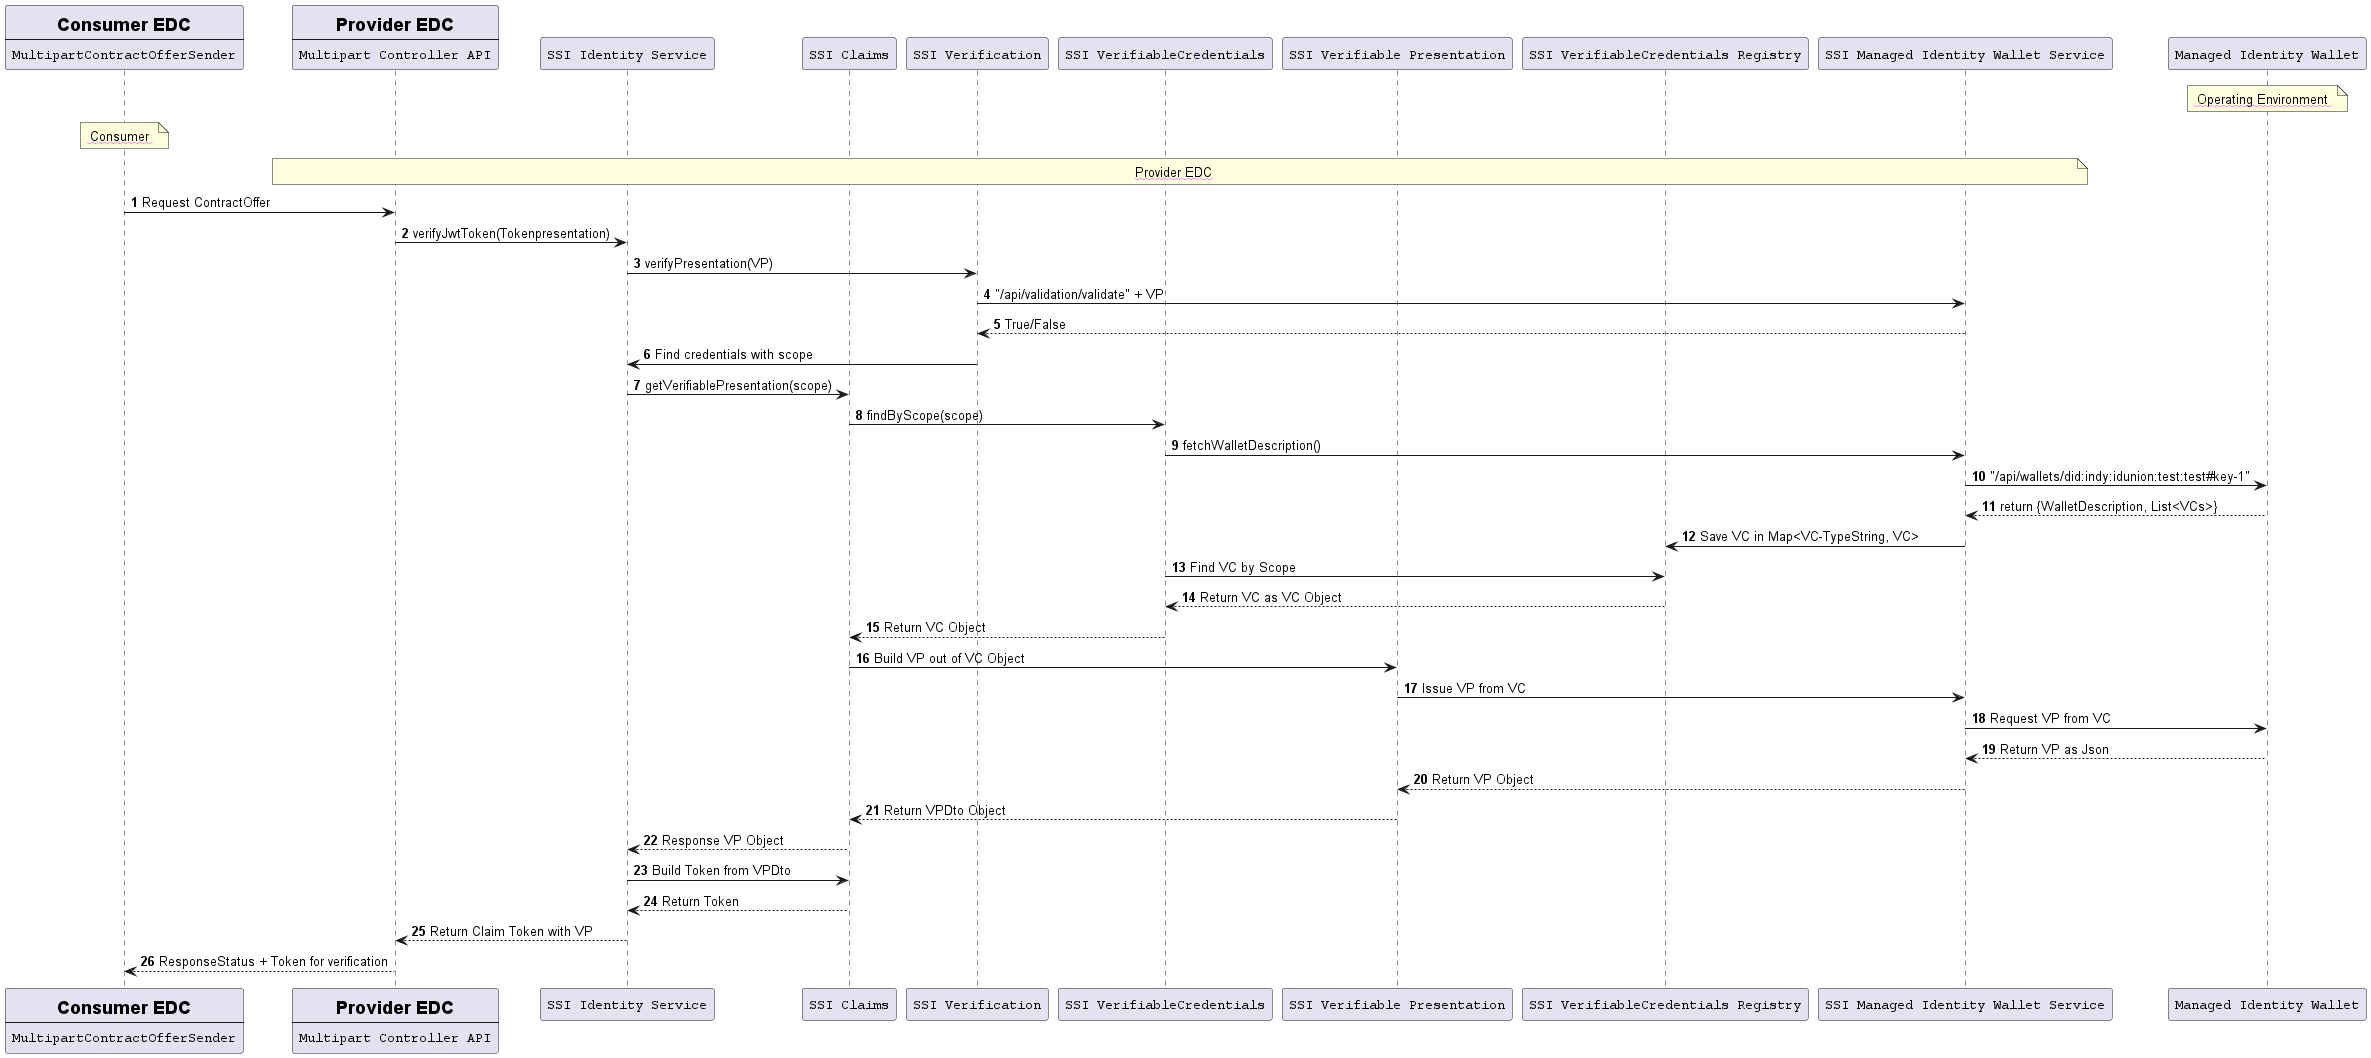
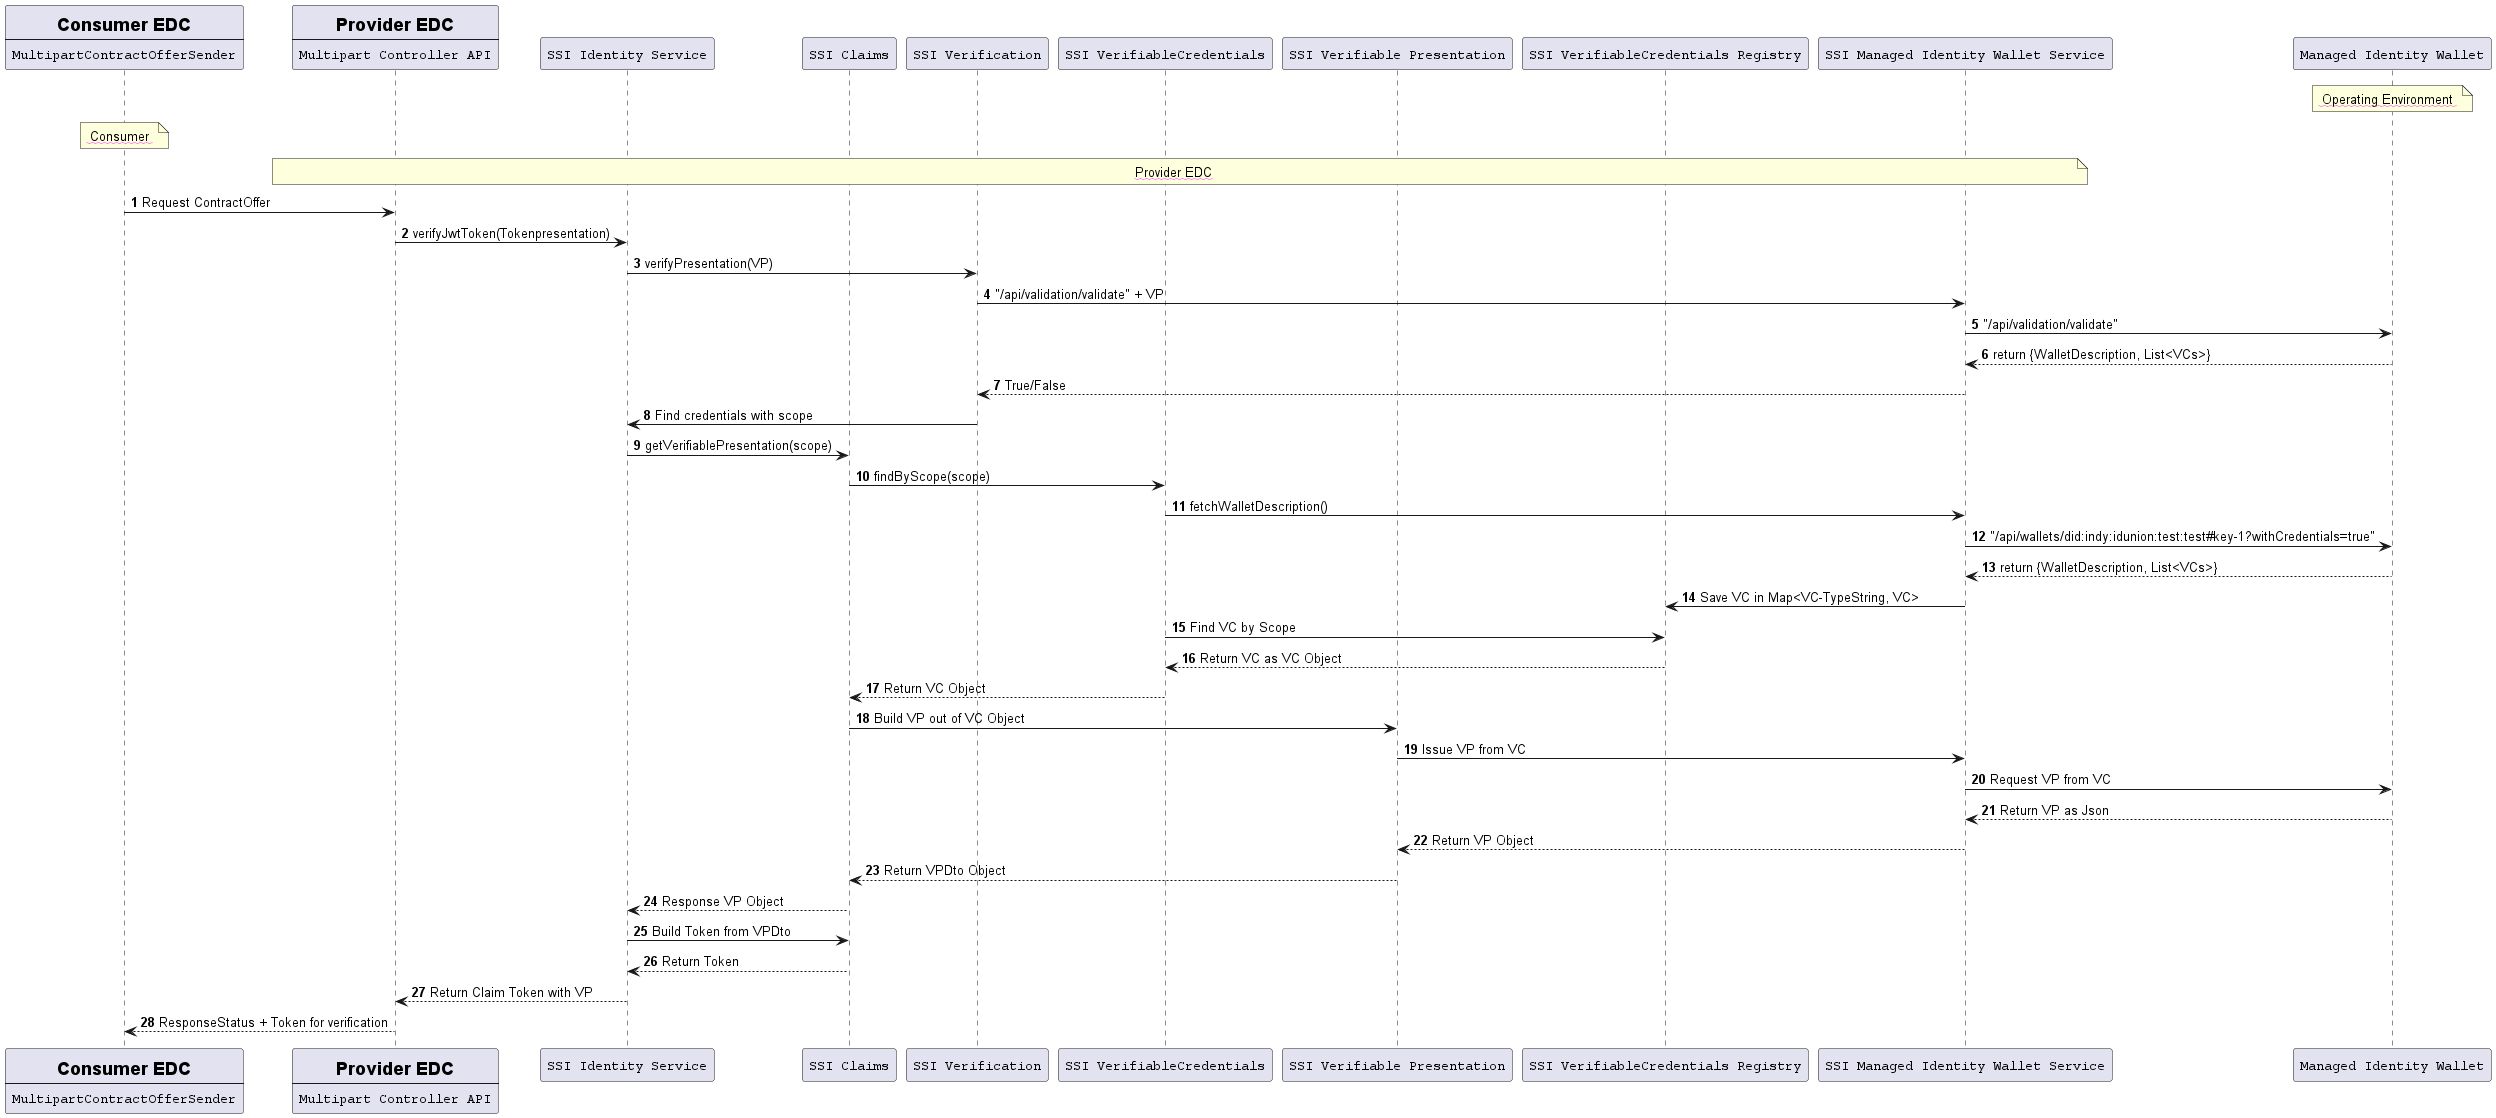
Added Documentation for the Extension

diff --git a/extensions/iam/ssi/readme.md b/extensions/iam/ssi/readme.md
@@ -9,5 +9,23 @@ who he is talking to without the need of logging in into another system.
 The process in which two EDCs connecting to each other is done by the ids:Multipart Controller,
 in here we are concentrating of the token exchange and where the credentials come from.
 
-In the following SequenceDiagramm is the Workflow of the SSI-Identity Service:
+### Usage 
+
+For a example usage of the SSI extension, have a look on samples/06.0-ssi-authentication
+
+### Limitations
+
+The actual service don't validate the Token, this will be implemented as a Validation Service Endpoint.
+
+### Sequence Diagram Consumer
+
+![Consumer Sequence](ssi-doc/uml/data-transfer-ssi-consumer.png)
+
+### Sequence Diagram Provider
+
+![Consumer Sequence](ssi-doc/uml/data-transfer-ssi-provider.png)
+
+### Class Flow Diagram
+
+![Consumer Sequence](ssi-doc/uml/SSIExtensionClassDiagram.png)
 
